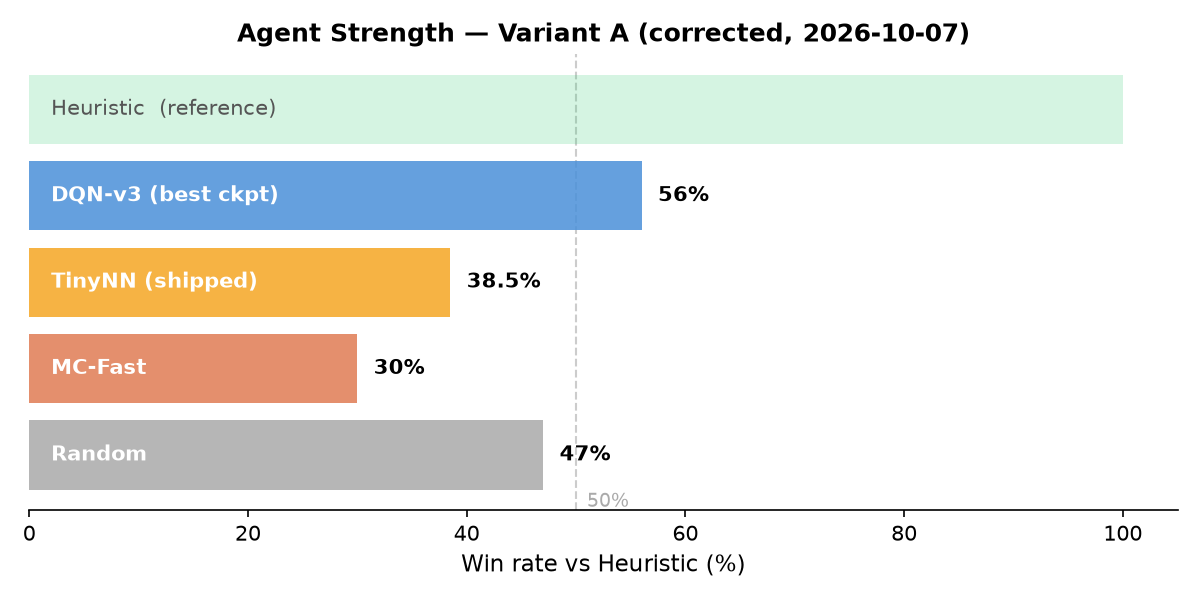
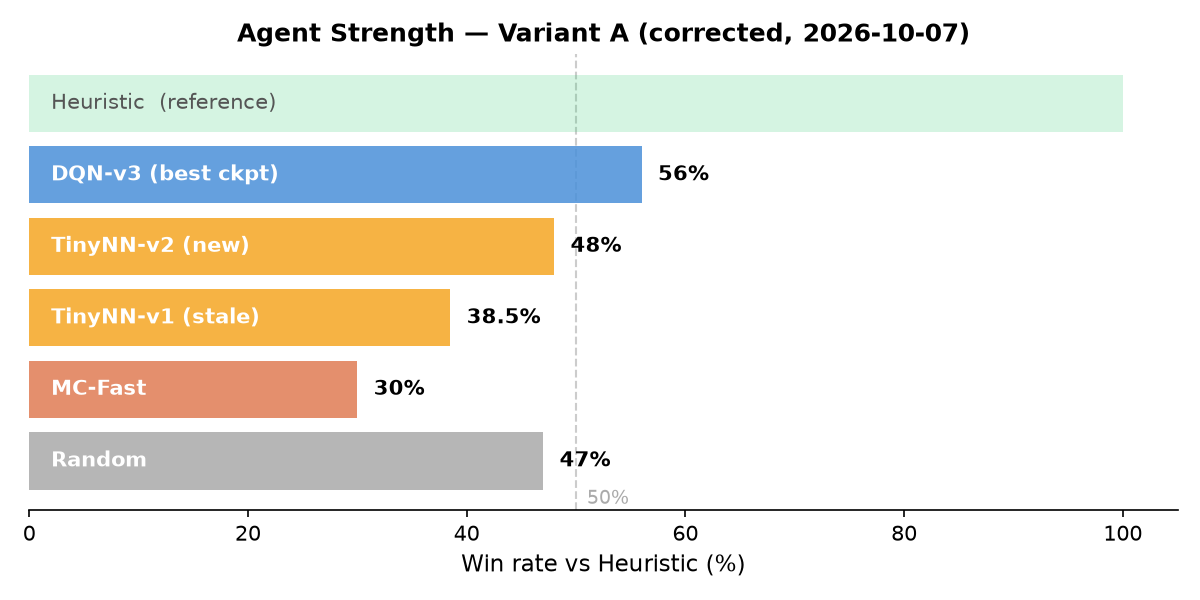
feat(utala): Phase 5.2 — TinyNN-v2 redistilled from DQN v3, 48% vs Heuristic
Redistilled TinyNN (80→32→95, 5,727 params) from DQN v3 best checkpoint:
- 48% vs Heuristic (≥45% target ✅), 50% vs Random
- Matches teacher (49%) at 7× fewer parameters
- 89% imitation accuracy on 93K decisions from 5K teacher games

export/tiny_nn_f32.json updated — drop-in replacement for Flutter, same
80→32→95 architecture and JSON format, no Dart code changes needed.

NEXT.md: Step 2 ticked; Step 3 is shipping to Flutter.
Strength ladder: TinyNN-v1 (38.5%) vs TinyNN-v2 (48%) comparison visible.

AI: claude/sonnet-4.6 no-ticket 63k/2k

diff --git a/utala/kaos9/scripts/analysis/visualise_agents.py b/utala/kaos9/scripts/analysis/visualise_agents.py
@@ -44,9 +44,10 @@ DQN_PATH = Path("results/dqn_v2d/dqn_v2_best.pth")
 def plot_strength_ladder():
     """Horizontal bar chart of corrected win rates vs Heuristic."""
     agents = [
-        ("Random",        47, "#aaaaaa"),
-        ("MC-Fast",       30, "#e07b54"),
-        ("TinyNN (shipped)", 38.5, "#f5a623"),
+        ("Random",        47,   "#aaaaaa"),
+        ("MC-Fast",       30,   "#e07b54"),
+        ("TinyNN-v1 (stale)", 38.5, "#f5a623"),
+        ("TinyNN-v2 (new)",   48,   "#f5a623"),
         ("DQN-v3 (best ckpt)", 56, "#4a90d9"),
         ("Heuristic",     None, "#2ecc71"),
     ]

diff --git a/utala/kaos9/NEXT.md b/utala/kaos9/NEXT.md
@@ -9,8 +9,9 @@ All numbers corrected (2026-10-07) using the fixed harness. Variant A rules, 200
 | **Random** | 0 | ~47% | — | No | Baseline |
 | **Heuristic** | 0 | — | 53% | Candidate | Strongest agent |
 | **MC-Fast** | 0 | 30% | 48% | No | Collapses in Variant A |
-| **DQN-v3 (best ckpt)** | ~39K | **56%** | ~48% | No | ✅ Clears 50% gate. Stage 3 oscillation — 47.5% final. Redistil needed. |
-| **TinyNN (shipped)** | ~5.7K | 38.5% | 48% | ⚠ Stale | Distilled from v2 (weak teacher). Needs redistil from v3. |
+| **DQN-v3 (best ckpt)** | ~39K | **56% peak / 49% eval** | 48% | No | Teacher for distillation |
+| **TinyNN-v2** | ~5.7K | **48%** | 50% | ✅ Ready | Redistilled from v3. Matches teacher at 7x smaller. |
+| **TinyNN-v1 (shipped)** | ~5.7K | 38.5% | 48% | ⚠ Stale | Old teacher — replace in Flutter |
 
 ---
 
@@ -29,27 +30,29 @@ Retrained 2026-10-07. 50K games, same curriculum config.
 
 ---
 
-### Step 2 — Redistil from DQN v3 best checkpoint
+### ✅ Step 2 — Redistil TinyNN from DQN v3 — DONE
 
-Best checkpoint (56%) is the teacher. Redistil into TinyNN (80→32→95, ~5.7K params).
+Redistilled 2026-10-07. 5K game dataset (93K decisions), 50 epochs.
 
-**Script:** `scripts/train/variant_a/distill_dqn.py`
-**Target:** TinyNN ≥45% vs corrected Heuristic
-**Steps:**
-1. Generate 5K–10K games with DQN v3 best checkpoint vs Heuristic + Random
-2. Train TinyNN student on teacher logits
-3. Eval: target ≥45% vs corrected Heuristic (100 games balanced)
-4. Export to `export/tiny_nn_f32.json` for Flutter
+**Results:**
+- TinyNN (80→32→95, 5,727 params): **48% vs Heuristic**, 50% vs Random — ✅ exceeds 45% target
+- Linear (80→95, 7,695 params): 46.5% vs Heuristic — also above 45%
+- Teacher DQN: 49% vs Heuristic (200-game final eval; 56% was mid-training peak)
+- TinyNN matches teacher at **7× fewer parameters** — excellent compression
+- Imitation accuracy: 89% — student closely copies teacher's action choices
 
-**After redistil:** run visualise_agents.py, copy charts to explainers/images/, update this file.
-
-**Commit:** `feat(utala): redistil TinyNN from DQN v3 — stronger teacher`
+New weights exported to `export/tiny_nn_f32.json` — ready for Flutter.
 
 ---
 
 ### Step 3 — Ship updated ONNX to Flutter
 
-Replace weights in Flutter app with new `tiny_nn_f32.json`.
+Replace `export/tiny_nn_f32.json` in the Flutter app. This is a drop-in replacement — same 80→32→95 architecture, same JSON format. The weights are updated; no Dart code changes needed.
+
+Steps:
+1. Copy `export/tiny_nn_f32.json` into the Flutter asset bundle
+2. Confirm the forward pass produces correct output shape (95 logits)
+3. Test against Random and Heuristic in the app
 
 ---
 
